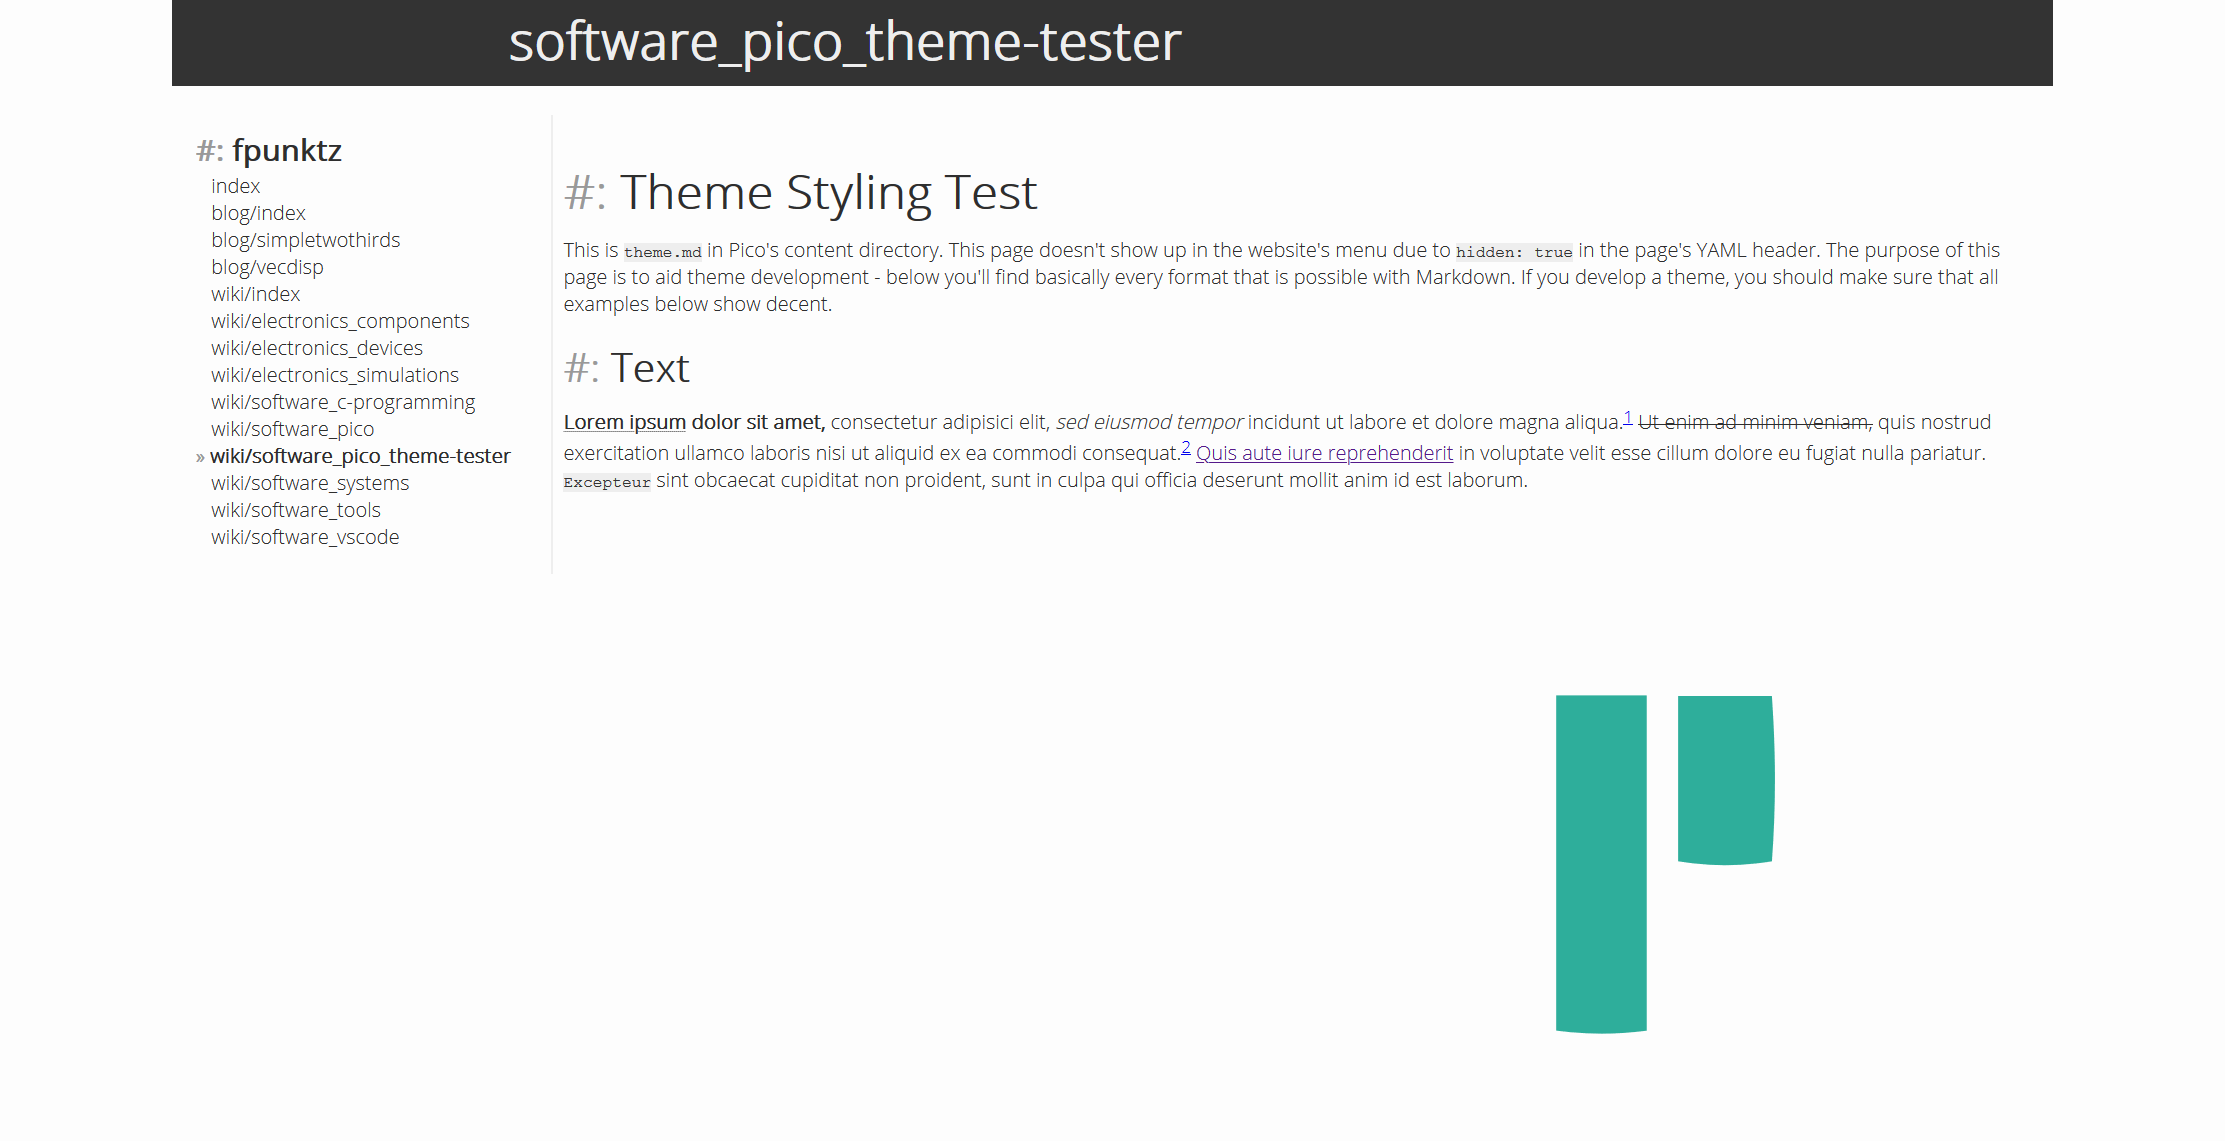
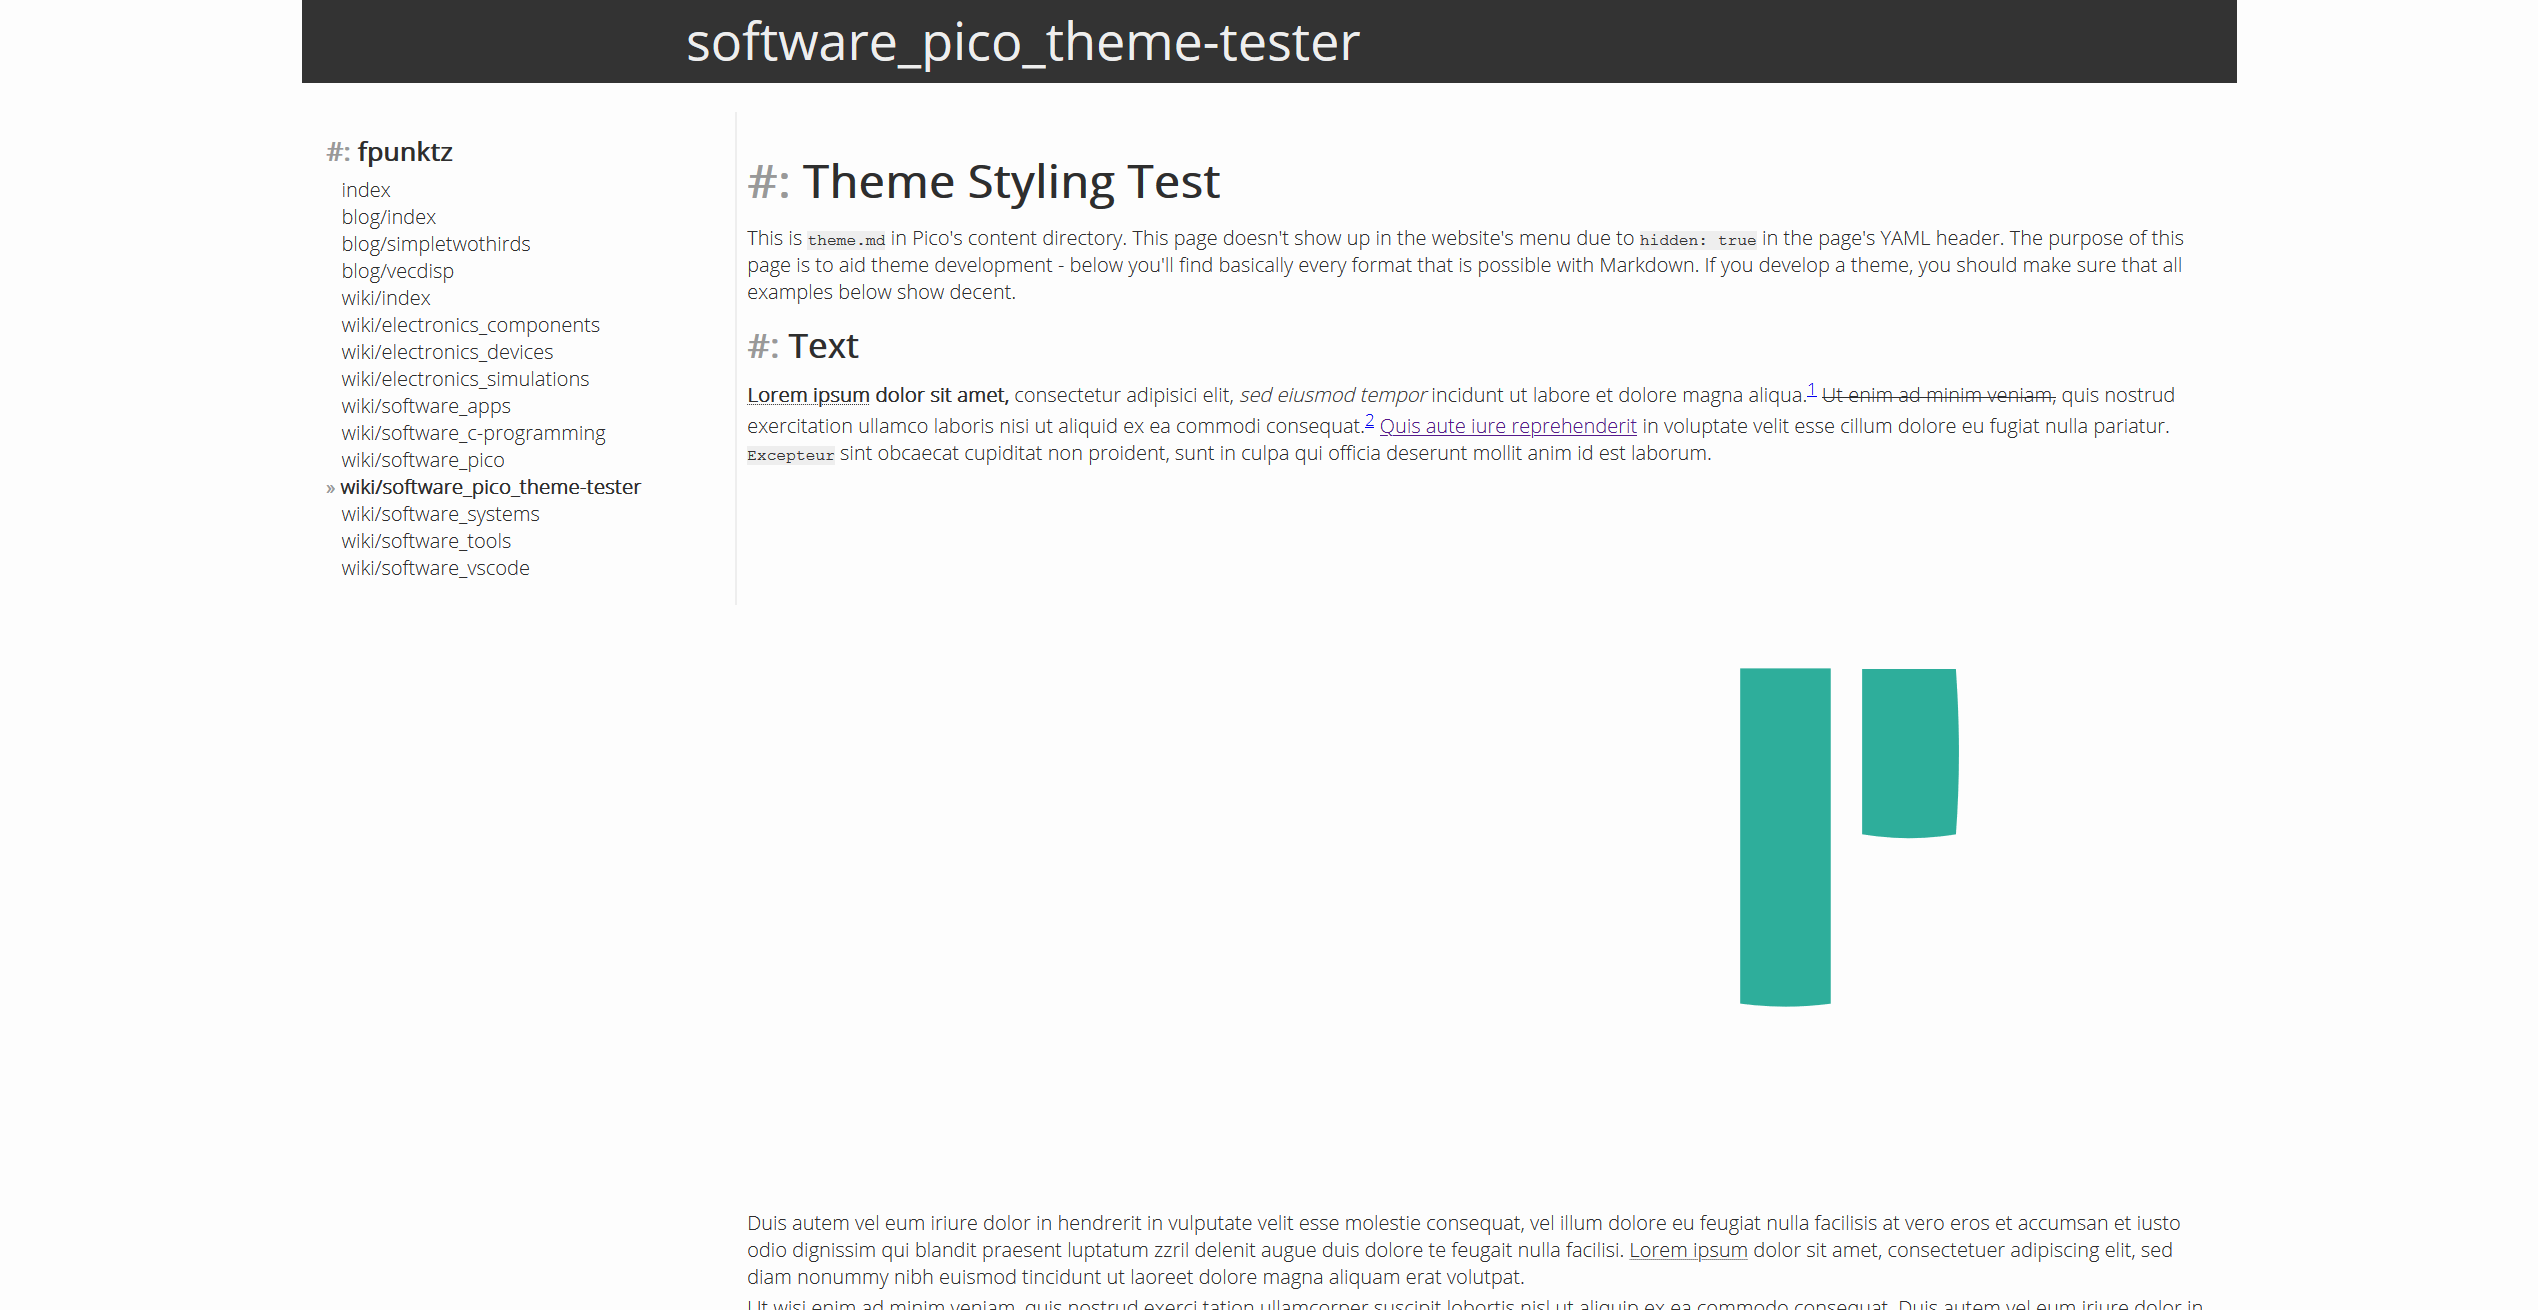
tweaks

Changed region(s): [[0.062, 0.0, 0.9303, 0.4908], [0.2791, 0.4908, 0.8683, 1.0]]

diff --git a/simpletwothirds/css/style.css b/simpletwothirds/css/style.css
@@ -41,27 +41,27 @@ body {
 }
 
 h1, h2, h3, h4, h5, h6 {
-    font-family: "OpenSans-Light";
-    font-weight: bold;
+    font-family: "OpenSans-Regular";
     line-height: 1.5em;
-    margin: 0.4em 0em 0.2em 0em;
+    margin: 0.3em 0em 0.2em 0em;
 }
 
-h1 { font-size: 2.4em; }
+h1 { font-size: 2.3em; }
 h1::before { color: var(--color-greymid); content: "#: "; }
 
-h2 { font-size: 2em; }
+h2 { font-size: 1.7em; }
 h2::before { color: var(--color-greymid); content: "#: "; }
 
-h3 { font-size: 1.5em; }
+h3 { font-size: 1.3em; }
 h3::before { color: var(--color-greymid); content: "#: ";  }
 
-h4 { font-size: 1.2em; }
+h4 { font-family: "OpenSans-Light"; font-size: 1.3em; }
 h4::before { color: var(--color-greymid); content: "#: ";  }
 
-h5 { font-size: 1.2em; }
+h5 { font-family: "OpenSans-Light"; font-size: 1.0em; }
+h5::before { color: var(--color-greymid); content: "#: ";  }
 
-h6 { font-size: 1.0em; }
+h6 { font-family: "OpenSans-Light"; font-size: 1.0em; }
 
 p {
     margin: 0em 0em 0.2em 0em;
@@ -167,10 +167,10 @@ img { max-width: 100%; }
     
 }
 .header a {
-    font-weight: bold;
+    font-family: "OpenSans-Regular";
     line-height: 1.2em;
     margin: 0em 0em 0em 0em;
-    padding: 0.15em 0.2em 0.3em 15vw;
+    padding: 0.15em 0.2em 0.25em 15vw;
     font-size: 2.6em;
     text-decoration: none;
     color: var(--color-greylight);
@@ -213,15 +213,6 @@ img { max-width: 100%; }
 .navbar a.active { font-weight: bold; }
 .navbar a.active::before { color: var(--color-greymid); content: "\00BB"; }
 
-.navbar a.title {
-    font-family: "OpenSans-Regular";
-    font-weight: bold;
-    line-height: 1.5em;
-    font-size: 1.5em;
-    /*text-decoration-line: none; */
-}
-.navbar a.title::before { text-decoration-line: none; color: var(--color-greymid); content: "#: "; }
-
 .content {
     display: grid;
     grid-column: col2 / col3;
@@ -238,26 +229,6 @@ img { max-width: 100%; }
         grid-column-gap: 10px;
         grid-row-gap: 10px;
     }
-
-    h1, h2, h3, h4, h5, h6 {
-        overflow: hidden;
-    }
-    
-    h1 { font-size: 1.6em; margin-top: 0.9em; }
-    h1::before { color: var(--color-greydark); content: "#: "; }
-    
-    h2 { font-size: 1.4em; margin-top: 1.1em; }
-    h2::before { color: var(--color-greydark); content: "#: "; }
-    
-    h3 { font-size: 1.2em; margin-top: 1.3em; }
-    h3::before { color: var(--color-greydark); content: "#: ";  }
-    
-    h4 { font-size: 1.0em; margin-top: 1.5em; }
-    h4::before { color: var(--color-greydark); content: "#: ";  }
-    
-    h5 { font-size: 1.0em; margin-top: 1.5em; }
-    
-    h6 { font-size: 1.0em; margin-top: 1.5em; }
 
     .image.xsmall { width: 50%; }
     .image.small { width: 70%; }
@@ -277,7 +248,7 @@ img { max-width: 100%; }
     .header a {
         margin: 0em 0.2em 0em 0.2em;
         padding: 0.1em 0.2em 0.2em 0.2em;
-        font-size: 2em;
+        font-size: 2.3em;
     }
 
     .navbar {
@@ -292,6 +263,6 @@ img { max-width: 100%; }
     .content {
         grid-column: col1 / col2;
         grid-row: row2 / row3;
-        margin: 1em 0.2em 0em 0.2em;
+        margin: 1em 0.3em 0em 0.3em;
     }
 }
